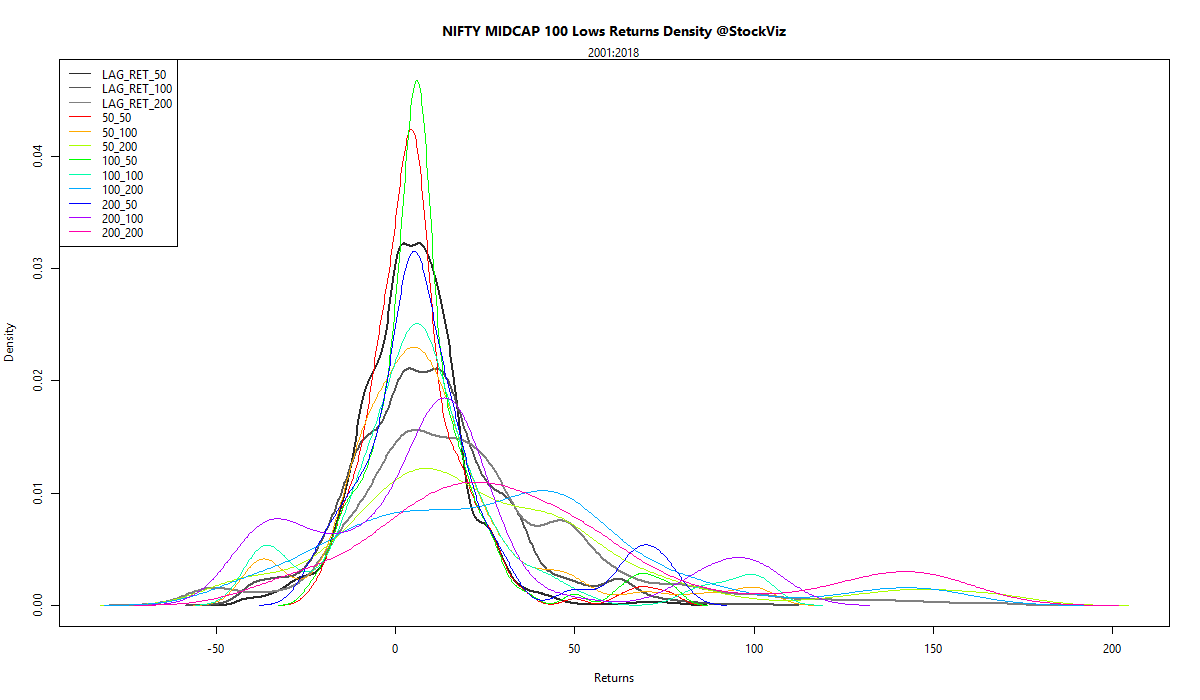
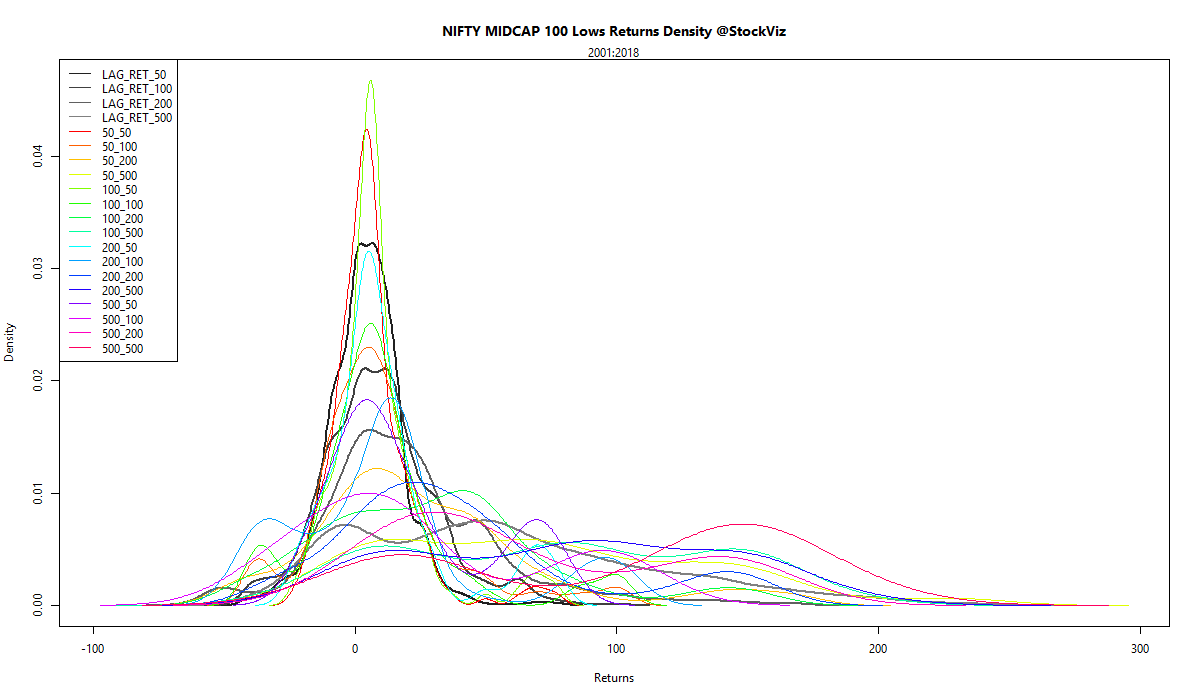
added 500-days

diff --git a/highs lows/readme.md b/highs lows/readme.md
@@ -1,2 +1,9 @@
 # Highs and Lows
 We often hear about equity indexes making highs and lows. How relevant are these events? What worked in the past?
+
+## scripts
+### script1.r 
+Tracks the highs and lows over different lookback periods. It highlights how longer lookback periods have lower number of events and generally track higher.
+
+### script2.relevant
+How are x-day returns distributed after a high/low is formed over y-days? And is there an ideal configuration (x,y) that produces consistent positive returns?
